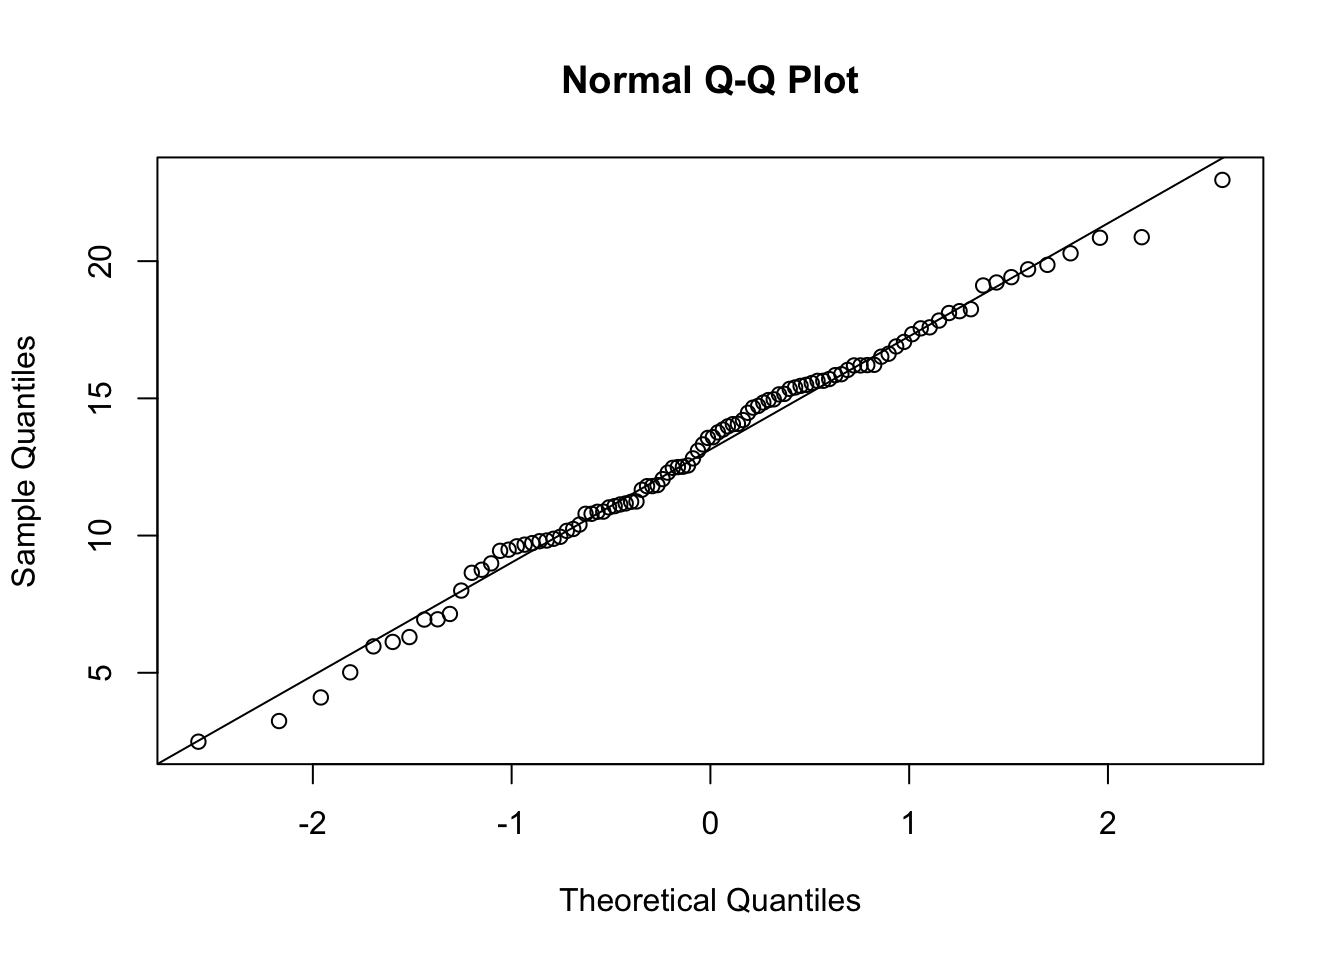
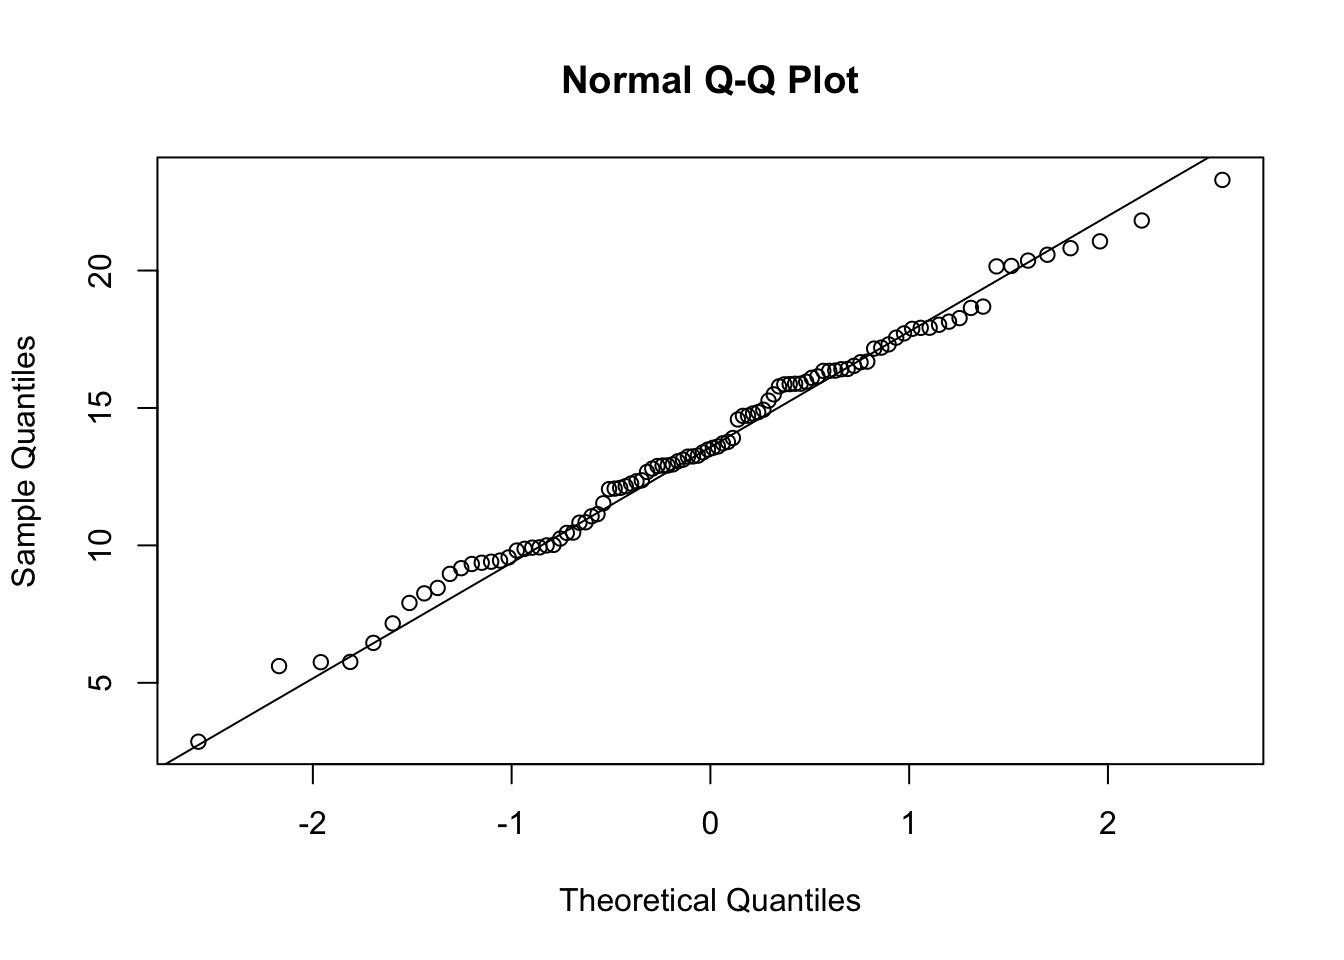
more minor edits; stashing progress for now

diff --git a/RLabs/02_R_tutorial_Tabular_data.html b/RLabs/02_R_tutorial_Tabular_data.html
@@ -924,13 +924,27 @@ makes life easier for you &amp; your TAs.</p>
 <div id="a-first-look-at-data" class="section level2">
 <h2>A first look at data</h2>
 <p>To see if the data were imported appropriately and/or get a sense of
-the characteristics of the data, the <code>summary()</code> and
-<code>View()</code> commands can be useful.</p>
+the characteristics of the data, the commands below can be useful.</p>
+<div id="view" class="section level3">
+<h3><code>View()</code></h3>
+<p>The <code>View()</code> function is a nice way to see the data in a
+spreadsheet-like format. To see the data in <code>titanicData</code>
+with <code>View()</code>, run the following command:</p>
+<div class="sourceCode" id="cb6"><pre class="sourceCode r"><code class="sourceCode r"><span id="cb6-1"><a href="#cb6-1" tabindex="-1"></a><span class="fu">View</span>(titanicData)</span></code></pre></div>
+<p><img src="formula_summaries/VIew_function_titanicData.png"
+width="680" /></p>
+<p>Again, note that the <code>titanicData</code> object has 1313 rows
+and 7 columns. A convention in R is to describe data frames according to
+the number of rows first and then columns second. For example,
+<code>titanicData</code> would be a 1313 x 7 object.</p>
+<p>The horizontal and vertical scroll bars will allow you to see more of
+the data compared to what may initially appear in the window.</p>
+</div>
 <div id="summary" class="section level3">
 <h3><code>summary()</code></h3>
 <p>This function will list all the variables and some summary statistics
 for each variable.</p>
-<div class="sourceCode" id="cb6"><pre class="sourceCode r"><code class="sourceCode r"><span id="cb6-1"><a href="#cb6-1" tabindex="-1"></a><span class="fu">summary</span>(titanicData)</span></code></pre></div>
+<div class="sourceCode" id="cb7"><pre class="sourceCode r"><code class="sourceCode r"><span id="cb7-1"><a href="#cb7-1" tabindex="-1"></a><span class="fu">summary</span>(titanicData)</span></code></pre></div>
 <pre><code>##  passenger_class                        name           age         
 ##  1st:322         Carlsson,MrFransOlof     :   2   Min.   : 0.1667  
 ##  2nd:280         Connolly,MissKate        :   2   1st Qu.:21.0000  
@@ -948,18 +962,34 @@ for each variable.</p>
 ##                    Paris,France     :  9                           
 ##                    (Other)          :648</code></pre>
 </div>
-<div id="view" class="section level3">
-<h3><code>View()</code></h3>
-<p>The <code>View()</code> function is a nice way to see the data in a
-spreadsheet-like format. To see the data in <code>titanicData</code>
-with <code>View()</code>, run the following command:</p>
-<div class="sourceCode" id="cb8"><pre class="sourceCode r"><code class="sourceCode r"><span id="cb8-1"><a href="#cb8-1" tabindex="-1"></a><span class="fu">View</span>(titanicData)</span></code></pre></div>
-<p><img src="formula_summaries/VIew_function_titanicData.png"
-width="680" /></p>
-<p>Again, note that the <code>titanicData</code> object has 7 columns
-and 1313 rows. The horizontal and vertical scroll bars will allow you to
-see more of the data compared to what may initially appear in the
-window.</p>
+<div id="names" class="section level3">
+<h3><code>names()</code></h3>
+<p>Sometimes, we’ll deal with datasets that are quite “wide” (lots of
+measured variables). These data may not lend themselves well to being
+inspected via <code>View()</code> and/or you may just want to see basic
+information about the names of variables.</p>
+<p><code>names()</code>, if used on a <code>data.frame</code> or
+<code>tibble</code>, will report the names of each column:</p>
+<div class="sourceCode" id="cb9"><pre class="sourceCode r"><code class="sourceCode r"><span id="cb9-1"><a href="#cb9-1" tabindex="-1"></a><span class="fu">names</span>(titanicData)</span></code></pre></div>
+<pre><code>## [1] &quot;passenger_class&quot;  &quot;name&quot;             &quot;age&quot;             
+## [4] &quot;embarked&quot;         &quot;home_destination&quot; &quot;sex&quot;             
+## [7] &quot;survive&quot;</code></pre>
+</div>
+<div id="str" class="section level3">
+<h3><code>str()</code></h3>
+<p><code>str()</code> will report the names of each column, along with a
+little more descriptive information about the type of variable it
+contains. It is somewhat of a hybrid of <code>summary()</code> and
+<code>names()</code>. “str” stand for “structure”.</p>
+<div class="sourceCode" id="cb11"><pre class="sourceCode r"><code class="sourceCode r"><span id="cb11-1"><a href="#cb11-1" tabindex="-1"></a><span class="fu">str</span>(titanicData)</span></code></pre></div>
+<pre><code>## &#39;data.frame&#39;:    1313 obs. of  7 variables:
+##  $ passenger_class : Factor w/ 3 levels &quot;1st&quot;,&quot;2nd&quot;,&quot;3rd&quot;: 1 1 1 1 1 1 1 1 1 1 ...
+##  $ name            : Factor w/ 1310 levels &quot;Abbing,MrAnthony&quot;,..: 22 25 26 27 24 31 45 46 50 54 ...
+##  $ age             : num  29 2 30 25 0.917 ...
+##  $ embarked        : Factor w/ 4 levels &quot;&quot;,&quot;Cherbourg&quot;,..: 4 4 4 4 4 4 4 4 4 2 ...
+##  $ home_destination: Factor w/ 372 levels &quot;&quot;,&quot;?Havana,Cuba&quot;,..: 314 234 234 234 234 241 165 26 24 232 ...
+##  $ sex             : Factor w/ 2 levels &quot;female&quot;,&quot;male&quot;: 1 1 2 1 2 2 1 2 1 2 ...
+##  $ survive         : Factor w/ 2 levels &quot;no&quot;,&quot;yes&quot;: 2 1 1 1 2 2 2 1 2 1 ...</code></pre>
 <p><br></p>
 </div>
 </div>
@@ -990,9 +1020,42 @@ by itself. We write the name of the data set, followed by a
 <code>$</code>, and then the name of the variable.</p>
 <p>For example, to show a list of the age of all the passengers on the
 Titanic, use</p>
-<div class="sourceCode" id="cb9"><pre class="sourceCode r"><code class="sourceCode r"><span id="cb9-1"><a href="#cb9-1" tabindex="-1"></a>titanicData<span class="sc">$</span>age</span></code></pre></div>
+<div class="sourceCode" id="cb13"><pre class="sourceCode r"><code class="sourceCode r"><span id="cb13-1"><a href="#cb13-1" tabindex="-1"></a>titanicData<span class="sc">$</span>age</span></code></pre></div>
 <p>This will show a vector that has all the values for this variable
 age, one for each individual in the data set.</p>
+<p><br></p>
+</div>
+<div id="indexing" class="section level3">
+<h3>Indexing</h3>
+<p>“Indexing” means selecting specific parts of objects. In lab 1, we
+used square brackets <code>[ ]</code> to look at specific elements
+within a vector.</p>
+<p>Data frames and tibbles are often described by how many rows and
+columns they contain. The convention is to list rows first: for example,
+<code>titanicData</code> would be a 1313 x 7 object.</p>
+<p>We can use this convention as a coordinate system for indexing
+specific subsets of the data. To do this, we again use square brackets
+right next to the object name and specify [row(s), column(s)] of
+interest. Remember that in R, the indexing starts at 1, not 0 (<em>this
+is different from the way Python works!</em>).</p>
+<p>For example, to see the entry for the 6th row and 3rd column of
+<code>titanicData</code>:</p>
+<div class="sourceCode" id="cb14"><pre class="sourceCode r"><code class="sourceCode r"><span id="cb14-1"><a href="#cb14-1" tabindex="-1"></a>titanicData[<span class="dv">6</span>, <span class="dv">3</span>]</span></code></pre></div>
+<pre><code>## [1] 47</code></pre>
+<p>If you do not include a value in either the “row” or “column” spot, R
+will include all rows or all columns. The comma within the brackets
+<code>[ , ]</code> will still be necessary for R to interpret what you
+intend. The following shows all columns for the 6th row:</p>
+<div class="sourceCode" id="cb16"><pre class="sourceCode r"><code class="sourceCode r"><span id="cb16-1"><a href="#cb16-1" tabindex="-1"></a>titanicData[<span class="dv">6</span>, ]</span></code></pre></div>
+<pre><code>##   passenger_class             name age    embarked home_destination  sex
+## 6             1st Anderson,MrHarry  47 Southampton       NewYork,NY male
+##   survive
+## 6     yes</code></pre>
+<p>Indexing data can get a bit more complicated. Other operators such as
+<code>:</code> or functions such as <code>c()</code> can be used to grab
+specific subsets of data. This won’t be a point of emphasis in BIOL 300;
+we’re more likely to subset our data based on factors using the
+<code>filter()</code> function described in a section below.</p>
 <p><br></p>
 </div>
 </div>
@@ -1003,10 +1066,10 @@ easiest way to do this is to simply assign a new vector to a new column
 name, using the <code>$</code>.</p>
 <p>For example, to add the log of age as a column in the
 <code>titanicData</code> data frame, we can write</p>
-<div class="sourceCode" id="cb10"><pre class="sourceCode r"><code class="sourceCode r"><span id="cb10-1"><a href="#cb10-1" tabindex="-1"></a>titanicData<span class="sc">$</span>log_age <span class="ot">&lt;-</span> <span class="fu">log</span>(titanicData<span class="sc">$</span>age)</span></code></pre></div>
+<div class="sourceCode" id="cb18"><pre class="sourceCode r"><code class="sourceCode r"><span id="cb18-1"><a href="#cb18-1" tabindex="-1"></a>titanicData<span class="sc">$</span>log_age <span class="ot">&lt;-</span> <span class="fu">log</span>(titanicData<span class="sc">$</span>age)</span></code></pre></div>
 <p>You can run the command <code>head(titanicData)</code> to see that
 <code>log_age</code> is now a column in <code>titanicData</code>.</p>
-<div class="sourceCode" id="cb11"><pre class="sourceCode r"><code class="sourceCode r"><span id="cb11-1"><a href="#cb11-1" tabindex="-1"></a><span class="fu">head</span>(titanicData)</span></code></pre></div>
+<div class="sourceCode" id="cb19"><pre class="sourceCode r"><code class="sourceCode r"><span id="cb19-1"><a href="#cb19-1" tabindex="-1"></a><span class="fu">head</span>(titanicData)</span></code></pre></div>
 <pre><code>##   passenger_class                                      name     age
 ## 1             1st                 Allen,MissElisabethWalton 29.0000
 ## 2             1st                  Allison,MissHelenLoraine  2.0000
@@ -1043,8 +1106,8 @@ including <code>filter()</code>.</p>
 and an individual is female if that variable has value
 <code>female</code>. We can create a new data frame that includes only
 the data from females with the following command:</p>
-<div class="sourceCode" id="cb13"><pre class="sourceCode r"><code class="sourceCode r"><span id="cb13-1"><a href="#cb13-1" tabindex="-1"></a>titanicDataFemalesOnly <span class="ot">&lt;-</span> <span class="fu">filter</span>(titanicData, sex <span class="sc">==</span> <span class="st">&quot;female&quot;</span>)</span>
-<span id="cb13-2"><a href="#cb13-2" tabindex="-1"></a><span class="fu">summary</span>(titanicDataFemalesOnly)</span></code></pre></div>
+<div class="sourceCode" id="cb21"><pre class="sourceCode r"><code class="sourceCode r"><span id="cb21-1"><a href="#cb21-1" tabindex="-1"></a>titanicDataFemalesOnly <span class="ot">&lt;-</span> <span class="fu">filter</span>(titanicData, sex <span class="sc">==</span> <span class="st">&quot;female&quot;</span>)</span>
+<span id="cb21-2"><a href="#cb21-2" tabindex="-1"></a><span class="fu">summary</span>(titanicDataFemalesOnly)</span></code></pre></div>
 <pre><code>##  passenger_class                            name          age         
 ##  1st:143         Connolly,MissKate            :  2   Min.   : 0.1667  
 ##  2nd:107         Abbott,MrsStanton(Rosa)      :  1   1st Qu.:19.0000  
@@ -1094,6 +1157,9 @@ double equal sign <code>==</code>.</p>
 </div>
 <div id="activities-questions" class="section level1">
 <h1>Activities &amp; Questions</h1>
+<p>Make a script in RStudio that includes all your R code required to
+answer the following questions. Include answers to all questions below
+using comments.</p>
 <p><br> 1. Install the <code>tidyverse</code> package on your system if
 you haven’t already. After it has installed, use <code>library()</code>
 to load it into your R environment. A good practice is to write
@@ -1116,8 +1182,14 @@ computer with the file name
 data file. Remember to list the meaning of each variable name, including
 units. The objective here is to provide a short document that another
 person could read to unambiguously interpret your data file.</p></li>
-<li><p>Import this data file into R using <code>read.csv()</code>, and
-give the resulting data frame a name that makes sense to you.</p></li>
+<li><p>The line below will not work because it contains a couple errors.
+Make corrections to the code to import the csv into R as a data frame
+named <code>Lab1_section_measurements</code>. Explain each correction
+you made (there should be at least 2). Why is each one
+necessary?</p></li>
+</ol>
+<p><code>Lab1_section_measurements &lt;- read.csv(DataForLabs/Lab1_section_measurements.csv, strings = "TRUE")</code></p>
+<ol start="3" style="list-style-type: lower-alpha">
 <li><p>Use the <code>View()</code> function to check that you have read
 the data correctly.</p></li>
 <li><p>Use the <code>summary()</code> function to determine the
@@ -1130,7 +1202,7 @@ countries on Earth. Each row is a country, and each column contains a
 variable.</p>
 <ol style="list-style-type: lower-alpha">
 <li><p>Use <code>read.csv()</code> to read the data from this file into
-a data frame called countries.</p></li>
+a data frame called <code>countries</code>.</p></li>
 <li><p>Use <code>summary()</code> to get a quick description of this
 data set. What are the first three variables?</p></li>
 <li><p>Using the output of <code>summary()</code>, how many countries

diff --git a/RLabs/01_R_tutorial_Intro_to_R.html b/RLabs/01_R_tutorial_Intro_to_R.html
@@ -786,11 +786,12 @@ get assigned to the object.</p>
 <pre><code>## [1] 32</code></pre>
 <p><br></p>
 </div>
-<div id="names" class="section level2">
-<h2>Names</h2>
+<div id="naming-objects" class="section level2">
+<h2>Naming objects</h2>
 <p>Naming objects and functions in R is pretty flexible.</p>
-<p>A name has to start with a letter, but that can be followed by
-letters or numbers. There can’t be any spaces, though.</p>
+<p>In general, a name should start with a letter, but that can be
+followed by letters or numbers. There can’t be any spaces or dashes, but
+underscores work.</p>
 <p>Names in R are case-sensitive, which means that <code>Weights</code>
 and <code>weights</code> are completely different things to R. This is a
 common and incredibly frustrating source of errors in R.</p>
@@ -806,7 +807,12 @@ like we saw in the previous section, to chain the words with underscores
 convention is called “snake_case”.</p>
 <p>Another solution to make separate words stand out in a object name is
 to vary the case: <code>weightsBeforeHospital</code>. This convention is
-called “camelCase”.</p>
+called “camelCase” (capital letters = humps).</p>
+<p>It may be tempting to try something like
+<code>weights-before-hospital</code>, but this will not work as R will
+interpret this as subtraction, e.g., <code>weights</code> -
+<code>before</code> - <code>hospital</code>. Do not use this convention
+(often called “Kebab-case”, dashes = skewers).</p>
 <p><br></p>
 </div>
 <div id="vectors" class="section level2">
@@ -923,17 +929,19 @@ feel that you would like to skip just one of the bits of information and
 fill in the rest, that is fine too. The data sheets do not identify
 students by name. Pass the sheet to the TA when you are finished. We’ll
 use these data in subsequent labs.</p>
-<p><br> 2. For each week, create an R script that captures the code that
-you use to answer the questions, along with the answers. Use a
-<code>#</code> at the beginning of each comment line.</p>
+<p><br> 2. Each week in BIOL 300, you will create an R script that
+captures the code that you use to answer the questions, along with the
+answers. Use a <code>#</code> at the beginning of each comment line.</p>
 <ol style="list-style-type: lower-alpha">
 <li><p>Open a new R script file. Start by adding comments with your name
-and the week (Week 1) at the top.</p></li>
+and the lab number (Lab 1) at the top.</p></li>
 <li><p>For each of the questions below, write the question number as a
 comment, followed by any R code you use to do the question, and give the
-answers as comments.</p></li>
+answers as comments. Save the R script on your computer; you will upload
+the R script you write each week as part of the Canvas quiz.</p></li>
 </ol>
-<p>For example, here is what part of your script might look like.</p>
+<p>For example, here is what the beginning of your script might look
+like.</p>
 <div class="sourceCode" id="cb38"><pre class="sourceCode r"><code class="sourceCode r"><span id="cb38-1"><a href="#cb38-1" tabindex="-1"></a><span class="co"># Terry T. Student</span></span>
 <span id="cb38-2"><a href="#cb38-2" tabindex="-1"></a><span class="co"># BIOL 300, Lab 1</span></span>
 <span id="cb38-3"><a href="#cb38-3" tabindex="-1"></a></span>
@@ -953,9 +961,8 @@ labs.)</p>
 answers as shown in the text?</p></li>
 </ol>
 <p><br> 4. For each of the variables below, come up with a object name
-that would be appropriate to use in R. Remember that
-<code>camelCase</code> and <code>snake_case</code> are usually good
-conventions.</p>
+that would be appropriate to use in R. Remember that camelCase and
+snake_case are usually good conventions.</p>
 <ol style="list-style-type: lower-alpha">
 <li><p>Body temperature in Celsius</p></li>
 <li><p>How much aspirin is given per dose for a patient</p></li>

diff --git a/RLabs/08_R_tutorial_Normal_and_sample_means.html b/RLabs/08_R_tutorial_Normal_and_sample_means.html
@@ -681,9 +681,9 @@ distribution</p></li>
 numbers drawn from a normal distribution with mean 13 and standard
 deviation 4:</p>
 <div class="sourceCode" id="cb6"><pre class="sourceCode r"><code class="sourceCode r"><span id="cb6-1"><a href="#cb6-1" tabindex="-1"></a><span class="fu">rnorm</span>(<span class="at">n =</span> <span class="dv">20</span>, <span class="at">mean =</span> <span class="dv">13</span>, <span class="at">sd =</span> <span class="dv">4</span>)</span></code></pre></div>
-<pre><code>##  [1] 10.853280 15.280391  8.959630 15.489195  8.598940 12.477979  9.778402
-##  [8]  6.506566 14.964599  6.838508  2.744726 13.826216 19.100187  7.375562
-## [15] 14.114610 13.516990 19.409958 13.455047 16.405482  8.263806</code></pre>
+<pre><code>##  [1]  5.048985 14.014310 17.945766 14.257501 11.440739 13.370810 16.706670
+##  [8]  8.984886 14.335461 11.627318  3.680766  9.713969 15.878561 13.313971
+## [15]  5.067717 19.488051  9.778473 18.648746 12.615548 13.750184</code></pre>
 <p>Let’s look at a QQ plot generated from 100 numbers randomly drawn
 from a normal distribution:</p>
 <div class="sourceCode" id="cb8"><pre class="sourceCode r"><code class="sourceCode r"><span id="cb8-1"><a href="#cb8-1" tabindex="-1"></a>normal_vector <span class="ot">&lt;-</span> <span class="fu">rnorm</span>(<span class="at">n =</span> <span class="dv">100</span>, <span class="at">mean =</span> <span class="dv">13</span>, <span class="at">sd =</span> <span class="dv">4</span>)</span>
@@ -742,6 +742,9 @@ src="formula_summaries/Normal%20and%20means%20summary.png" /></p>
 </div>
 <div id="activities-questions" class="section level1">
 <h1>Activities &amp; Questions</h1>
+<p>Make a script in RStudio that includes all your R code required to
+answer the following questions. Include answers to all questions below
+using comments.</p>
 <p><br> 1. We return to the applet we used previously, located at <a
 href="http://www.zoology.ubc.ca/~whitlock/Kingfisher/SamplingNormal.htm"
 class="uri">http://www.zoology.ubc.ca/~whitlock/Kingfisher/SamplingNormal.htm</a>

diff --git a/RLabs/03_R_tutorial_Sampling.html b/RLabs/03_R_tutorial_Sampling.html
@@ -661,7 +661,7 @@ randomly chooses integers from a given range. To randomly sample 5
 individuals from 25 possibilities, we can use:</li>
 </ol>
 <div class="sourceCode" id="cb1"><pre class="sourceCode r"><code class="sourceCode r"><span id="cb1-1"><a href="#cb1-1" tabindex="-1"></a><span class="fu">sample.int</span>(<span class="at">n =</span> <span class="dv">25</span>, <span class="at">size =</span> <span class="dv">5</span>)</span></code></pre></div>
-<pre><code>## [1] 11 14  4 16  7</code></pre>
+<pre><code>## [1]  2 21  6 20 12</code></pre>
 <p>This tells R to give us a sample of <code>size = 5</code> numbers
 randomly chosen from the integers 1 to <code>n</code>, and here we set
 <code>n = 25</code>. (When you run this line you will almost certainly

diff --git a/RLabs/11_R_tutorial_Correlation_Regression.html b/RLabs/11_R_tutorial_Correlation_Regression.html
@@ -832,6 +832,9 @@ src="formula_summaries/Regression%20correlation%20summary.png" /></p>
 </div>
 <div id="activities-questions" class="section level1">
 <h1>Activities &amp; Questions</h1>
+<p>Make a script in RStudio that includes all your R code required to
+answer the following questions. Include answers to all questions below
+using comments.</p>
 <p><br> 1. In a web browser, open the app at <a
 href="http://shiney.zoology.ubc.ca/whitlock/Guessing_correlation/">shiney.zoology.ubc.ca/whitlock/Guessing_correlation/</a></p>
 <p>This app is simple—it will plot some data in a scatterplot, and you

diff --git a/RLabs/06_R_tutorial_Frequency_data.html b/RLabs/06_R_tutorial_Frequency_data.html
@@ -972,7 +972,9 @@ hypothesis that these extinction data follow a Poisson distribution.</p>
 </div>
 <div id="activities-questions" class="section level1">
 <h1>Activities &amp; Questions</h1>
-<p><br></p>
+<p>Make a script in RStudio that includes all your R code required to
+answer the following questions. Include answers to all questions below
+using comments. <br></p>
 <p><br> 1. This is a simple, quick exercise meant to help you visualize
 the meaning of a binomial distribution. The binomial distribution
 applies to cases where we do a set number of random trials, and in each

diff --git a/RLabs/09_R_tutorial_Comparing_means_of_2_groups.html b/RLabs/09_R_tutorial_Comparing_means_of_2_groups.html
@@ -920,6 +920,9 @@ group that died had the same population variances for the variable
 </div>
 <div id="activities-questions" class="section level1">
 <h1>Activities &amp; Questions</h1>
+<p>Make a script in RStudio that includes all your R code required to
+answer the following questions. Include answers to all questions below
+using comments.</p>
 <p><br> 1. We will investigate robustness of the two-sample
 <em>t</em>-test. Remember that the two-sample <em>t</em>-test assumes
 that the variable has a normal distribution within the populations, that

diff --git a/RLabs/05_R_tutorial_Describing_data.html b/RLabs/05_R_tutorial_Describing_data.html
@@ -777,7 +777,9 @@ interval we can use the following.</p>
 </div>
 <div id="activities-questions" class="section level1">
 <h1>Activities &amp; Questions</h1>
-<p><br></p>
+<p>Make a script in RStudio that includes all your R code required to
+answer the following questions. Include answers to all questions below
+using comments. <br></p>
 <p><br> 1. Go to the web and open the page at <a
 href="http://www.zoology.ubc.ca/~whitlock/kingfisher/SamplingNormal.htm"
 class="uri">http://www.zoology.ubc.ca/~whitlock/kingfisher/SamplingNormal.htm</a>.

diff --git a/RLabs/10_R_tutorial_ANOVA.html b/RLabs/10_R_tutorial_ANOVA.html
@@ -838,6 +838,9 @@ groups with the Titanic data.</p>
 </div>
 <div id="activities-questions" class="section level1">
 <h1>Activities &amp; Questions</h1>
+<p>Make a script in RStudio that includes all your R code required to
+answer the following questions. Include answers to all questions below
+using comments.</p>
 <p><br> 1. The European cuckoo does not look after its own eggs, but
 instead lays them in the nests of birds of other species. Previous
 studies showed that cuckoos sometimes have evolved to lay eggs that are

diff --git a/RLabs/07_R_tutorial_Contingency_analysis.html b/RLabs/07_R_tutorial_Contingency_analysis.html
@@ -828,6 +828,9 @@ cases, though, it cannot calculate the odds ratios.</p>
 </div>
 <div id="activities-questions" class="section level1">
 <h1>Activities &amp; Questions</h1>
+<p>Make a script in RStudio that includes all your R code required to
+answer the following questions. Include answers to all questions below
+using comments.</p>
 <p><br> 1. The <span class="math inline">\(\chi^2\)</span> contingency
 test uses a test statistic called <span
 class="math inline">\(\chi^2\)</span>. When the null hypothesis is true
